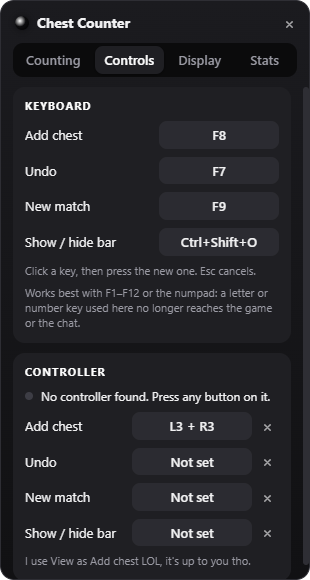
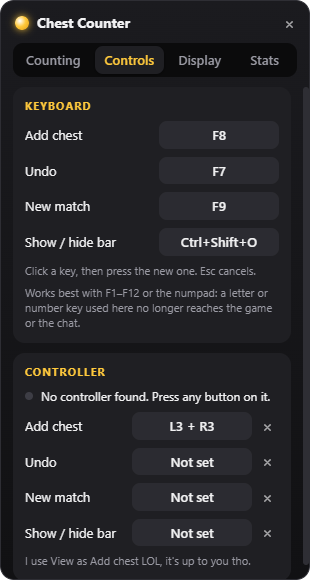
dark goes back to gold

diff --git a/style.css b/style.css
@@ -1,9 +1,9 @@
 /* ---------- themes (picked in Look; set on <body data-theme="...">) ---------- */
 :root,
 body[data-theme='dark'] {
-  --gold: #0c0c0e; /* the accent: numbers, switches, highlights (black in Dark, with a white edge) */
-  --gold-deep: #000;
-  --on-gold: #f5f5f7;
+  --gold: #ffc93c; /* the accent: numbers, switches, highlights (gold in Dark, blue in Midnight, purple in Storm) */
+  --gold-deep: #e09a12;
+  --on-gold: #2b1f00;
   --ink: #f2f2f3;
   --soft: #d4d4d8; /* labels on the bar */
   --muted: #9a9aa3;
@@ -54,41 +54,6 @@ body[data-theme='storm'] {
   --field: #33224f;
   --nav: #0f0819;
   --off: #4a3a66;
-}
-
-/* Dark's accent is black: text in it gets a thin white edge, and accent borders and filled parts a white ring */
-body[data-theme='dark'] {
-  --edge: -1px -1px 0 #fff, 1px -1px 0 #fff, -1px 1px 0 #fff, 1px 1px 0 #fff;
-}
-
-body[data-theme='dark'] :is(.stat.main b, .history b, .pop) {
-  text-shadow: var(--edge);
-}
-
-/* on the dark settings panel, black text would not be read: the accent's text is white there */
-body[data-theme='dark'] :is(h3, .value, .table-row.big b, #collection .week) {
-  color: #fff;
-}
-
-body[data-theme='dark'] .stat.main b.flash {
-  color: #000;
-  text-shadow: var(--edge), 0 0 14px #fff;
-}
-
-/* the open tab's name: white, like the other text on the panel */
-body[data-theme='dark'][data-tab='sound'] nav [data-tab='sound'],
-body[data-theme='dark'][data-tab='controls'] nav [data-tab='controls'],
-body[data-theme='dark'][data-tab='stats'] nav [data-tab='stats'],
-body[data-theme='dark'][data-tab='look'] nav [data-tab='look'] {
-  color: #fff;
-}
-
-body[data-theme='dark'] :is(.themes button.picked, .tile.found) {
-  border-color: #fff;
-}
-
-body[data-theme='dark'] :is(input.switch:checked, #done, .tile .check, .banner.on) {
-  box-shadow: 0 0 0 1px rgb(255 255 255 / 0.85);
 }
 
 * {
